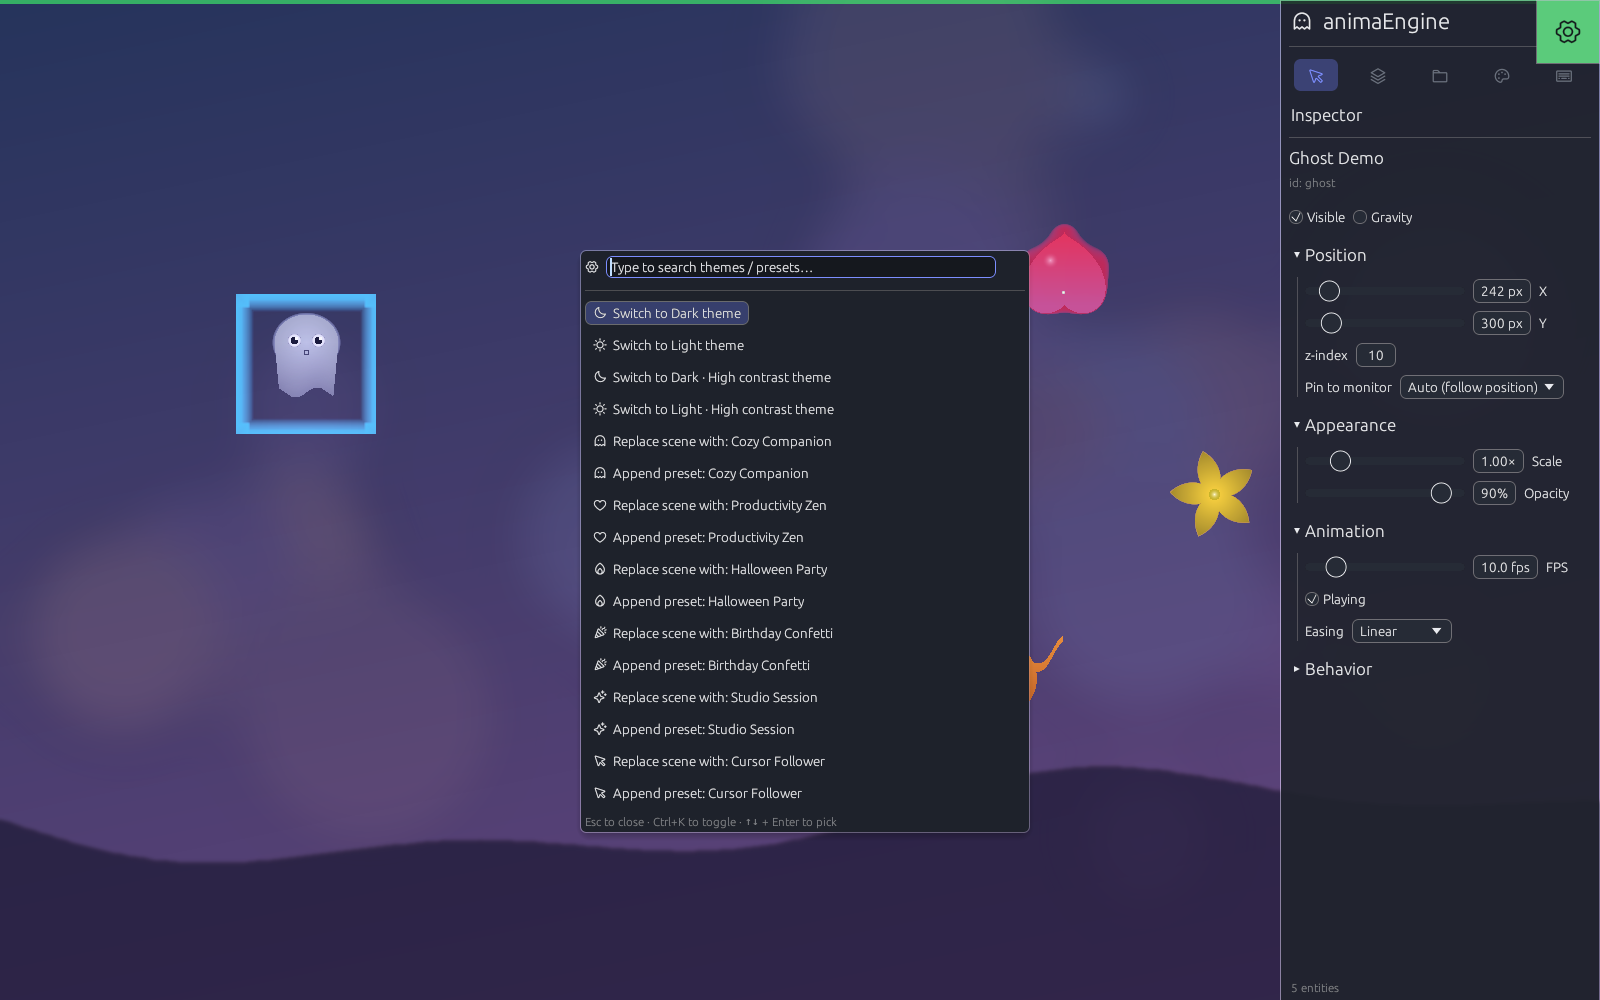
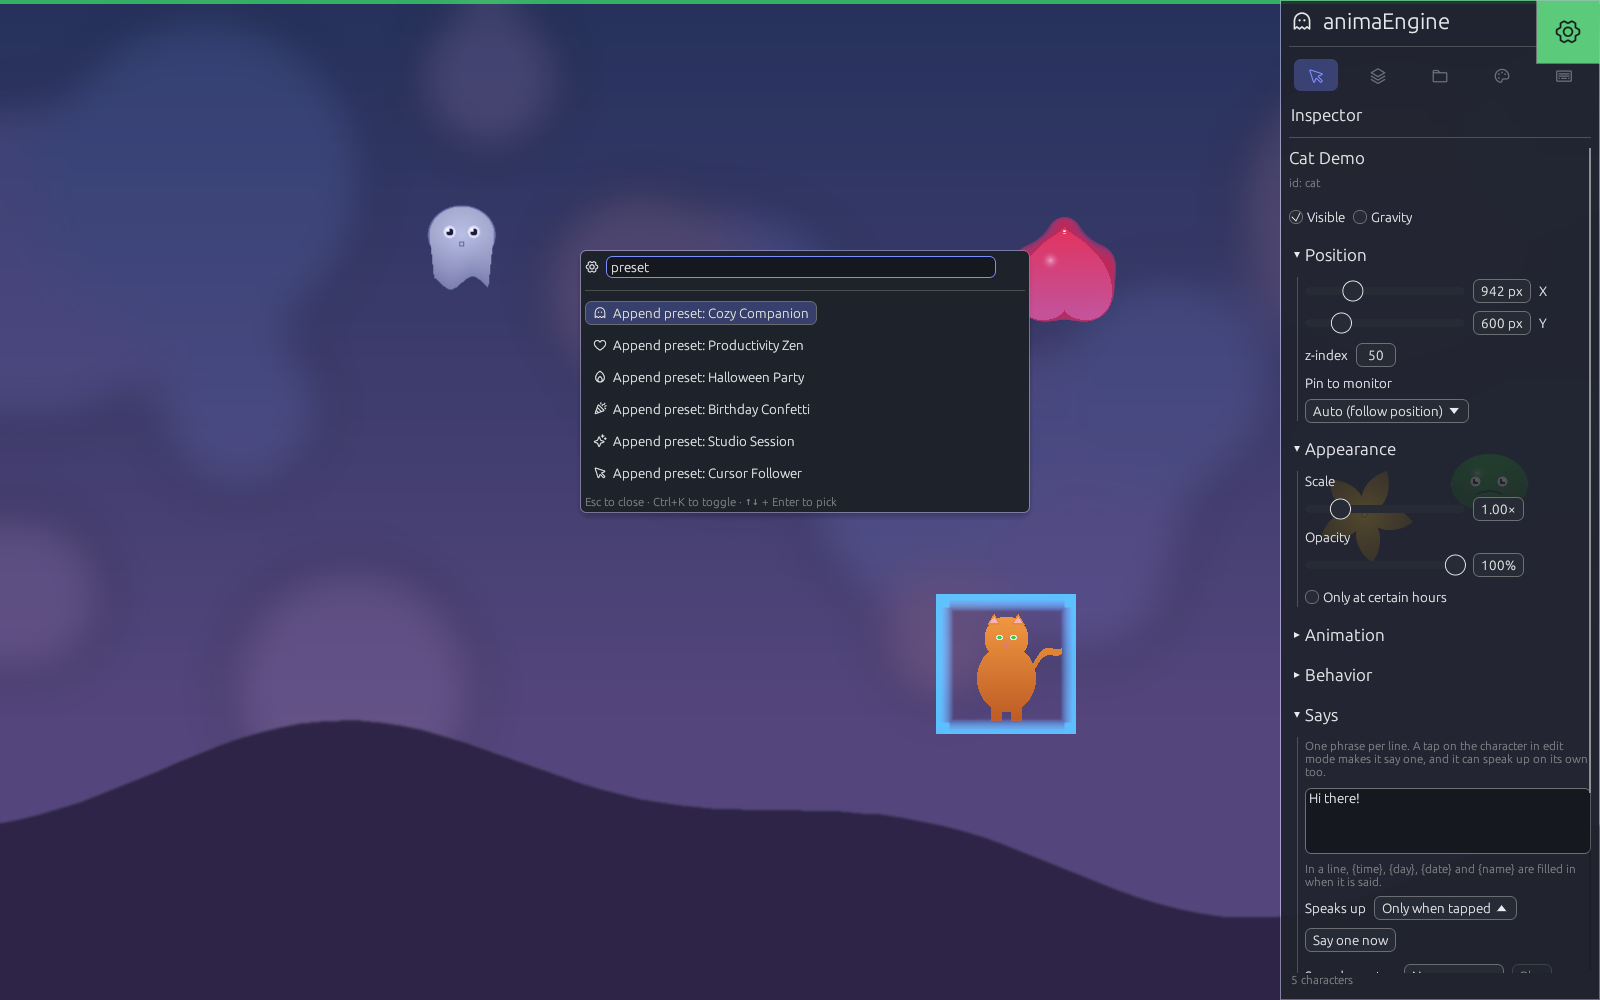
Screenshots for 1.5, and the README's demo GIF
The three screenshots, same names and size (1600x1000), retaken in the
test rig over a wallpaper like the old ones: the overlay with a tapped
cat saying hello; edit mode with the cat selected and the Inspector's
new Says section; the command palette searching the presets.

docs/media/demo.gif (800x500, 13 s, 680 KB) fills the README's
long-standing TODO: a tapped character says hello, edit mode opens, one
is selected, a picture pasted from the clipboard becomes a new
character, and edit mode closes. A paste rather than a drop: the rig's
drag source shows as a grey square of its own.

The metainfo still points at the screenshots of the v1.2.1 tag; moving
those URLs to the 1.5.0 tag belongs with the release commit.

diff --git a/README.md b/README.md
@@ -10,9 +10,7 @@ always-on-top windows with GPU acceleration. Built in Rust with **wgpu**
 + **winit** + **egui** — no Electron, no Chromium, minimal RAM use, and
 next to no CPU while nothing moves.
 
-<!-- TODO (X.3, against the RC build): demo GIF, top-fold. Record a
-     pass-through → edit-mode → drop-an-asset loop and drop it in:
-     ![animaEngine in action](docs/media/demo.gif) -->
+![A tapped character says hello; edit mode opens, a character is selected, a pasted picture becomes a new one](docs/media/demo.gif)
 
 > Status: 1.4.0 — stable. Production-ready packaging
 > (`.deb` / AppImage / Flatpak), stable X11/XWayland backend, opt-in
